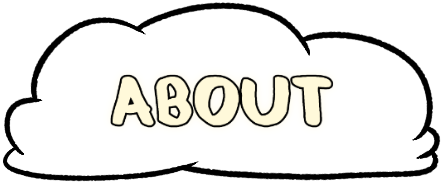
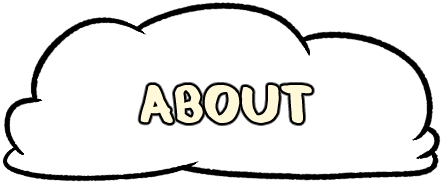
big update

Changed region(s): [[0.2342, 0.3784, 0.7613, 0.7027]]

diff --git a/stylesheet.css b/stylesheet.css
@@ -228,6 +228,54 @@ header{
     
 }
 
+.homebuttonPORTFOLIO {
+    width: 100%;
+    min-height: 100%;
+    border: 0px;
+    border-color: rgba(255, 255, 255, 0);
+    border-style: solid;
+    background-color: rgba(255, 255, 255, 0);
+    border-radius: 0px;
+    box-sizing: border-box;
+    padding: 0px;
+    justify-content: center;
+    text-align: center;
+    background-image: url(PORTFOLIO.png);
+    background-size:cover;
+    max-height: 350px;
+    max-width: 444px;
+    margin: auto;
+}
+
+.homebuttonPORTFOLIO:hover{
+    background-image: url(PORTFOLIO-HOVER.png);
+    
+}
+
+.homebuttonCHRTRDSGN {
+    width: 100%;
+    min-height: 100%;
+    border: 0px;
+    border-color: rgba(255, 255, 255, 0);
+    border-style: solid;
+    background-color: rgba(255, 255, 255, 0);
+    border-radius: 0px;
+    box-sizing: border-box;
+    padding: 0px;
+    justify-content: center;
+    text-align: center;
+    background-image: url(CHRTRDSGN.png);
+    background-size:cover;
+    max-height: 350px;
+    max-width: 444px;
+    margin: auto;
+}
+
+.homebuttonCHRTRDSGN:hover{
+    background-image: url(CHRTRDSGN-HOVER.png);
+    
+}
+
 .homebuttonART {
     width: 100%;
     min-height: 100%;

diff --git a/index.html b/index.html
@@ -17,7 +17,9 @@
                 <link rel="preload" as="image" href="TOTA-hoverw cloud.png" >   
                 <link rel="preload" as="image" href="artbutton-hover.png" >   
                 <link rel="preload" as="image" href="about v2 - hoverw cloud.png" >   
-                <link rel="preload" as="image" href="CITY-UNDERGROUND BACK - BLUE3.png" >   
+                <link rel="preload" as="image" href="CITY-UNDERGROUND BACK - BLUE3.png" >  
+                <link rel="preload" as="image" href="PORTFOLIO-HOVER.png" >   
+                <link rel="preload" as="image" href="musicvidsbutton-hover.png" >  
 
 
 
@@ -58,8 +60,12 @@
                         <br>
                         <br>-->
                             
-                            <div class="sectionbutton homebuttonANIMATION"> <a href="Animation"> <img src="FILL3.png" width="100%"> </a> </div>
+                            <div class="sectionbutton homebuttonPORTFOLIO"> <a href="Portfolio"> <img src="FILL3.png" width="100%"> </a> </div>
                         <!--<img class="homeimg" src="Side Stories.png">-->
+
+                        <br><br><br>
+                            
+                         <div class="sectionbutton homebuttonMUSIC"> <a href="MusicVids"> <img src="FILL3.png" width="100%"> </a> </div>
 
                         <br>
                         <br>